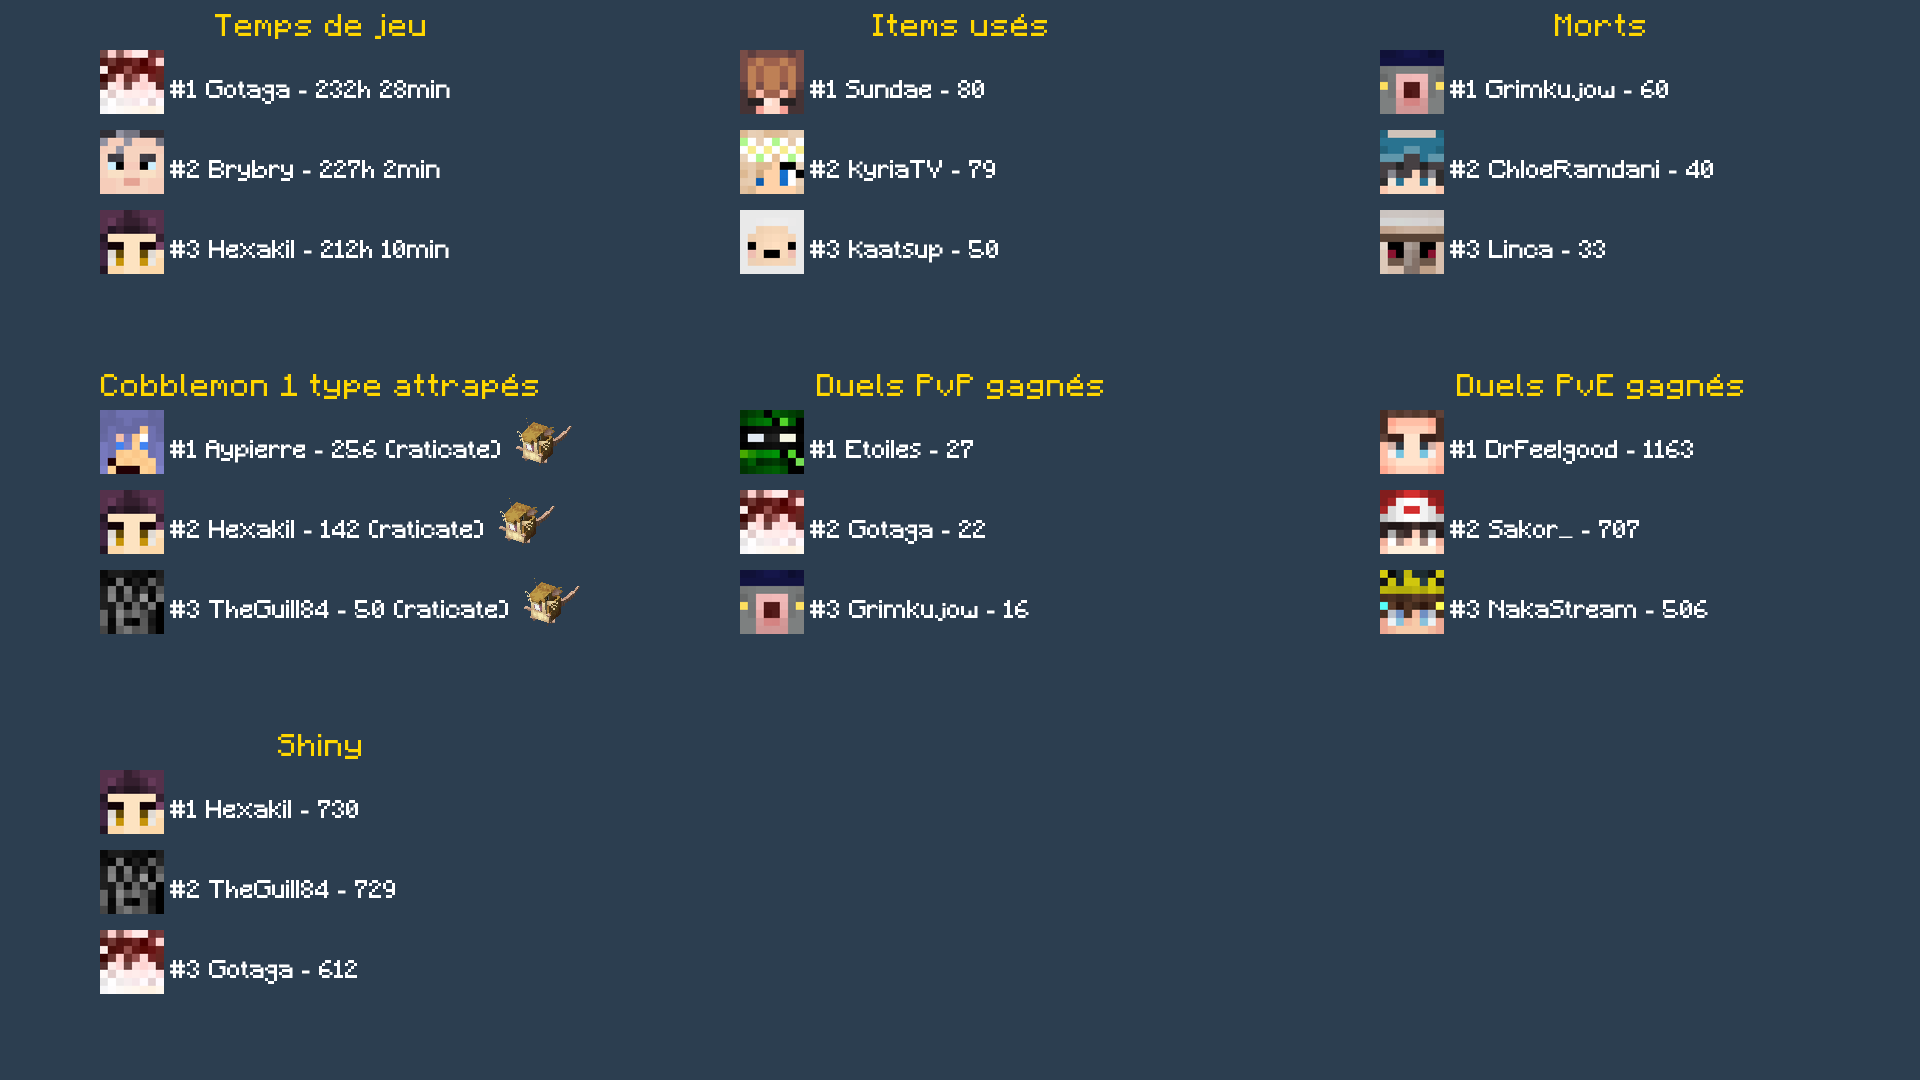
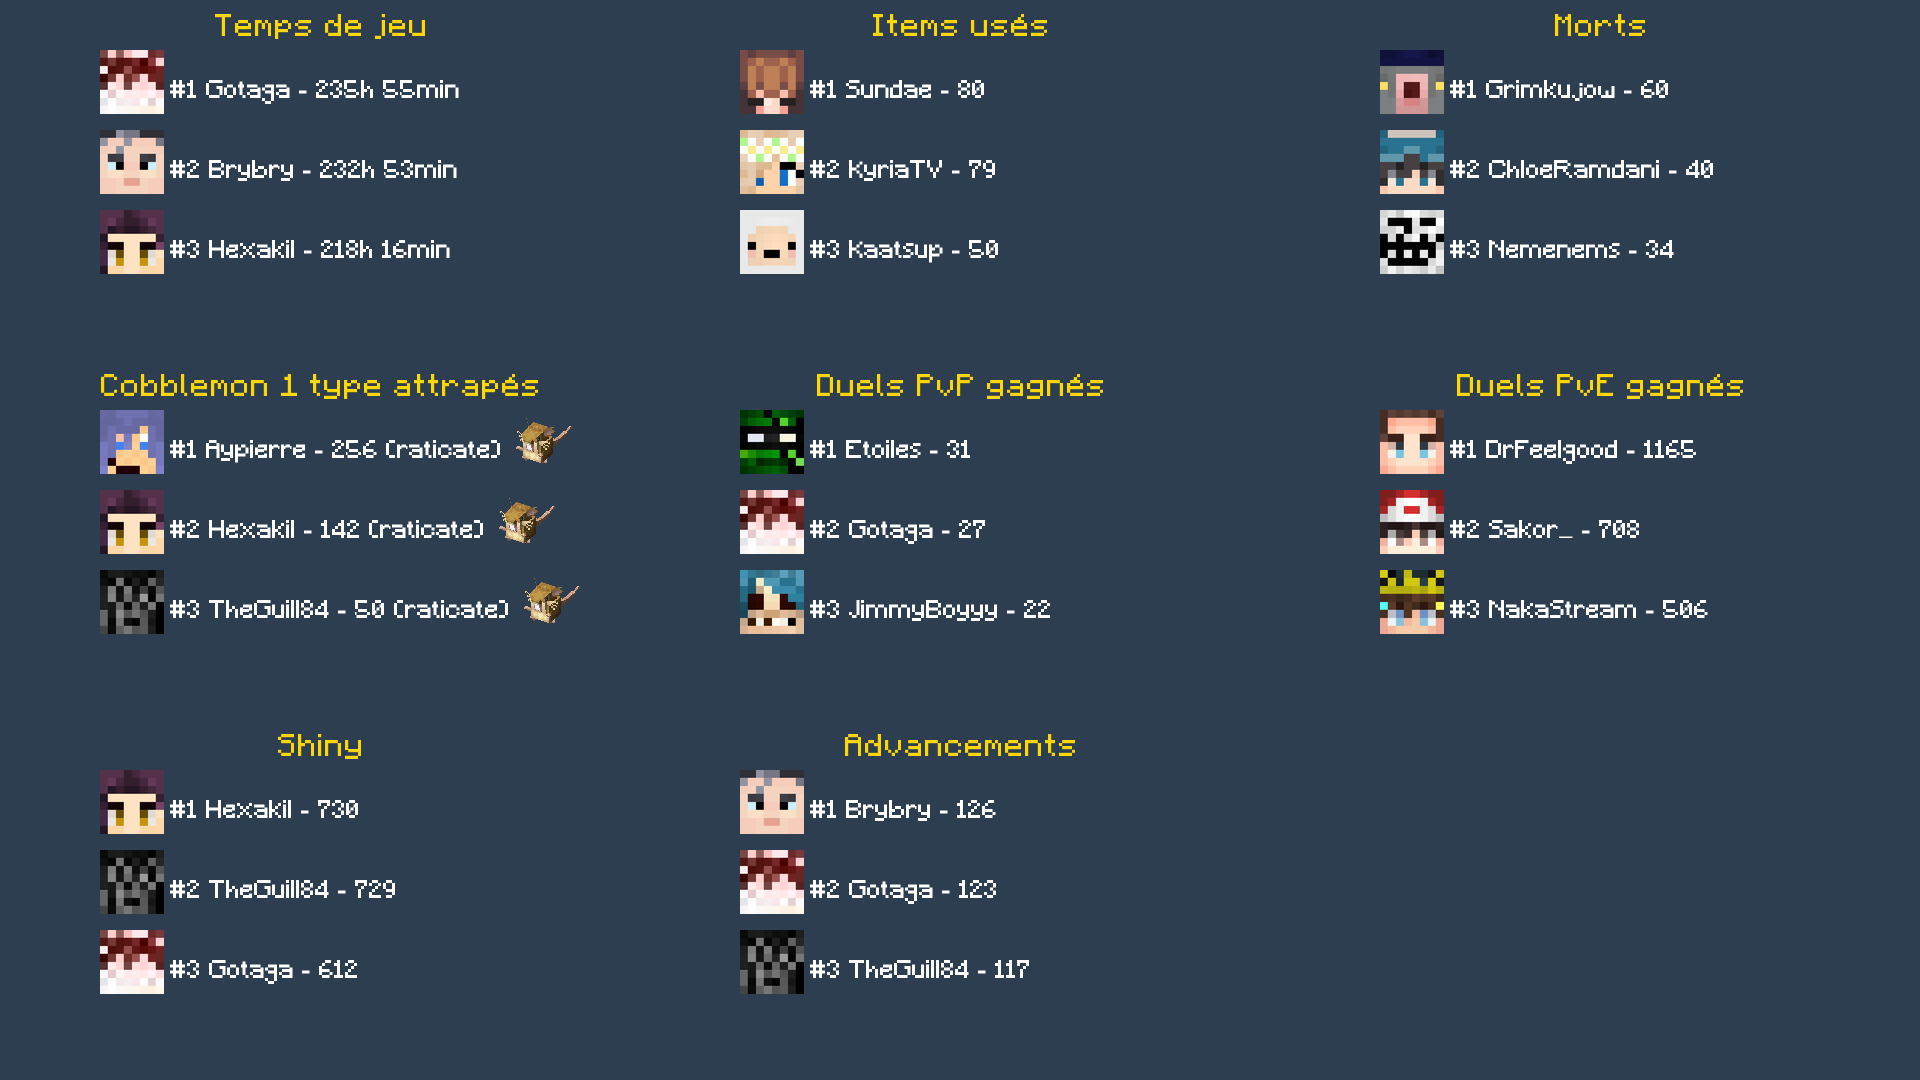
Advancements counting leaderboard for top 3

diff --git a/main.py b/main.py
@@ -80,15 +80,18 @@ def list_sftp_directory(sftp, path="."):
 def loadVanillaData(csvtoggle, csvpath, inputmode, ftpserver, ftppath, localpath, csvtogglemoney, csvpathmoney):
     df = pd.DataFrame()
     money = {}
+    advancements = pd.DataFrame()
     
     if inputmode == "ftp" or inputmode == "sftp":
         
         if ftppath == "":
             ftppath_complete_stats = "world/stats"
             ftppath_complete_playerdata = "world/playerdata"
+            ftppath_complete_advancements = "world/advancements"
         else:
             ftppath_complete_stats = ftppath + "/world/stats"
             ftppath_complete_playerdata = ftppath + "/world/playerdata"
+            ftppath_complete_advancements = ftppath + "/world/advancements"
         if inputmode == "ftp":
             ftpserver.cwd(ftppath)
             with open("data/usercache/usercache.json", "wb") as file:
@@ -127,24 +130,16 @@ def loadVanillaData(csvtoggle, csvpath, inputmode, ftpserver, ftppath, localpath
                 raise
 
         # Start by removing current data files in local
-        for filename in os.listdir("data/stats"):
-            file_path = os.path.join("data/stats", filename)
-            try:
-                if filename == ".gitignore":
-                    continue
-                if os.path.isfile(file_path) or os.path.islink(file_path):
-                    os.unlink(file_path)
-            except Exception as e:
-                print('Failed to remove %s. Reason: %s' % (file_path, e))
-        for filename in os.listdir("data/playerdata"):
-            file_path = os.path.join("data/playerdata", filename)
-            try:
-                if filename == ".gitignore":
-                    continue
-                if os.path.isfile(file_path) or os.path.islink(file_path):
-                    os.unlink(file_path)
-            except Exception as e:
-                print('Failed to remove %s. Reason: %s' % (file_path, e))
+        for folder in ["data/stats", "data/playerdata", "data/advancements"]:
+            for filename in os.listdir(folder):
+                file_path = os.path.join(folder, filename)
+                try:
+                    if filename == ".gitignore":
+                        continue
+                    if os.path.isfile(file_path) or os.path.islink(file_path):
+                        os.unlink(file_path)
+                except Exception as e:
+                    print('Failed to remove %s. Reason: %s' % (file_path, e))
 
         # Process the stats data
         for filename in filenames:
@@ -216,6 +211,52 @@ def loadVanillaData(csvtoggle, csvpath, inputmode, ftpserver, ftppath, localpath
             money[temp_name.iloc[0]] = math.floor(nbtfile['cardinal_components']['numismatic-overhaul:currency']['Value'].value/10000)
         money = pd.DataFrame(money, index=["money"]).transpose()
         
+        # Go back to previous folder, now use advancements
+        if inputmode == "ftp":
+            # Go back to root
+            ftpserver.cwd("../" * (len(ftpserver.pwd().split("/"))-1))
+            # Get directories
+            filenames = ftpserver.nlst(ftppath_complete_advancements)
+            ftpserver.cwd(ftppath_complete_advancements)
+        elif inputmode == "sftp":
+            # Go back to root
+            current_path = ftpserver.getcwd()
+            depth = len([x for x in current_path.split("/") if x]) if current_path != "/" else 0
+            if depth > 0:
+                ftpserver.chdir("../" * depth)  # Return to root
+            # Get directories
+            filenames = ftpserver.listdir(ftppath_complete_advancements)
+            ftpserver.chdir(ftppath_complete_advancements)
+        for filename in filenames:
+            filename = filename.split("/")[-1]
+            if filename[-1] == ".":
+                continue
+            print("Now processing", filename)
+            # Download the file to process
+            local_file = "data/advancements/"+filename
+            with open(local_file, "wb") as file:
+                if inputmode == "ftp":
+                    ftpserver.retrbinary(f"RETR {filename}", file.write)
+                elif inputmode == "sftp":
+                    ftpserver.get(filename, local_file)
+            with open(local_file, "r") as file:
+                data = json.load(file)
+            temp_df = pd.json_normalize(data, meta_prefix=True)
+            temp_name = names.loc[names['uuid'] == filename[:-5]]['name']
+            if temp_name.empty:
+                print("No username found for UUID", filename[:-5], " in usercache.json, using UUID for this player instead.")
+                temp_name = filename[:-5]
+                temp_df = temp_df.transpose().iloc[1:].rename({0: temp_name}, axis=1)
+            temp_df = temp_df.transpose().iloc[1:].rename({0: temp_name.iloc[0]}, axis=1)
+            # Split the index (stats.blabla.blabla) into 3 indexes (stats, blabla, blabla)
+            temp_df.index = temp_df.index.str.split('.', expand=True)
+            #print(temp_df)
+            #temp_df.to_csv('temp.csv')
+            if advancements.empty:
+                advancements = temp_df
+            else:
+                advancements = advancements.join(temp_df, how="outer")
+        
         # Go back to root
         if inputmode == "ftp":
             ftpserver.cwd("../" * (len(ftpserver.pwd().split("/"))-1))
@@ -233,9 +274,10 @@ def loadVanillaData(csvtoggle, csvpath, inputmode, ftpserver, ftppath, localpath
         if inputmode == "manual":
             playerdata_path = 'data/playerdata'
             stats_path = 'data/stats'
+            advancements_path = 'data/advancements'
         if inputmode == "local":
             playerdata_path = localpath+'/world/playerdata'
-            stats_path = localpath+'/world/stats'
+            advancements_path = localpath+'/world/advancements'
             
         # Stats
         for filename in os.listdir(stats_path):
@@ -275,14 +317,41 @@ def loadVanillaData(csvtoggle, csvpath, inputmode, ftpserver, ftppath, localpath
             nbtfile = nbt.nbt.NBTFile(playerdata_path + '/' + filename,'r')
             money[temp_name.iloc[0]] = math.floor(nbtfile['cardinal_components']['numismatic-overhaul:currency']['Value'].value/10000)
         money = pd.DataFrame(money, index=["money"]).transpose()
+            
+        # Advancements
+        for filename in os.listdir(advancements_path):
+            if filename == ".gitignore":
+                continue
+            print("Now processing", filename)
+            file = open(advancements_path + '/' + filename)
+            data = json.load(file)
+            # Import the JSON to a Pandas DF
+            temp_df = pd.json_normalize(data, meta_prefix=True)
+            temp_name = names.loc[names['uuid'] == filename[:-5]]['name']
+            if temp_name.empty:
+                print("No username found for UUID", filename[:-5], " in usercache.json, using UUID for this player instead.")
+                temp_name = filename[:-5]
+                temp_df = temp_df.transpose().iloc[1:].rename({0: temp_name}, axis=1)
+            temp_df = temp_df.transpose().iloc[1:].rename({0: temp_name.iloc[0]}, axis=1)
+            # Split the index (stats.blabla.blabla) into 3 indexes (stats, blabla, blabla)
+            temp_df.index = temp_df.index.str.split('.', expand=True)
+            # Drop rows where it's not a real advancement, it's only an unlocked recipe (i.e. takes the shape of xxx:recipes/yyy)
+            temp_df = temp_df[~temp_df.index.get_level_values(0).str.split(":", n=1).str[1].str.startswith("recipes")]
+            #print(temp_df)
+            #temp_df.to_csv('temp.csv')
+            if advancements.empty:
+                advancements = temp_df
+            else:
+                advancements = advancements.join(temp_df, how="outer")
     
     # Replace missing values by 0 (the stat has simply not been initialized because the associated action was not performed)
     df = df.fillna(0)
+    advancements = advancements.fillna(0)
     if csvtoggle == "true":
         df.to_csv(csvpath)
     if csvtogglemoney == "true":
         money.to_csv(csvpathmoney)
-    return df, money
+    return df, money, advancements
 
 def loadCobblemonData(csvtoggle, csvpath, inputmode, ftpserver, ftppath, localpath):
     # Contains cobbledex_discovery/registers
@@ -536,6 +605,12 @@ def getVanillaBestAndWorst(df, username, cleaning, cleaningvalue):
     output = ranks[[username, 'value', 'non_zero_values']].sort_values(username, ascending=False).rename(columns={username:"rank_"+username, "value":"value_"+username})
     print(output) # add .to_string() for the whole output
 
+def getAdvancementsLeaderboard(df):
+    count_df = pd.DataFrame((df == True).sum().sort_values())
+    count_df['index'] = range(len(count_df), 0, -1)
+    count_df = count_df.iloc[::-1]
+    return count_df
+
 def getCobblemonBattleLeaderboard(df, type):
     row = df.loc[type].sort_values().iloc[::-1]
     df = pd.DataFrame(row).rename(columns={type: 0})
@@ -673,7 +748,7 @@ conn = init_database("scoreboard.db")
 if config['VANILLALEADERBOARD']['Enable'] == "true" or config['BESTANDWORST']['Enable'] == "true" or config['COBBLEMONLEADERBOARDS']['MoneyEnable'] == "true":
     # Load the data
     print("LOADING VANILLA DATA")
-    vanilla_df, money_df = loadVanillaData(config['VANILLALEADERBOARD']['CreateCSV'], config['VANILLALEADERBOARD']['CSVPath'], config['INPUT']['Mode'], ftp_server, config['INPUT']['FTPPath'], config['INPUT']['LocalPath'], config['VANILLALEADERBOARD']['CreateCSVMoney'], config['VANILLALEADERBOARD']['CSVPathMoney'])
+    vanilla_df, money_df, advancements_df = loadVanillaData(config['VANILLALEADERBOARD']['CreateCSV'], config['VANILLALEADERBOARD']['CSVPath'], config['INPUT']['Mode'], ftp_server, config['INPUT']['FTPPath'], config['INPUT']['LocalPath'], config['VANILLALEADERBOARD']['CreateCSVMoney'], config['VANILLALEADERBOARD']['CSVPathMoney'])
 
 if config['COBBLEMONLEADERBOARDS']['TotalEnable'] == "true" or config['COBBLEMONLEADERBOARDS']['ShinyEnable'] == "true" or config['COBBLEMONLEADERBOARDS']['LegEnable'] == "true":
     print("LOADING COBBLEMON DATA")
@@ -791,6 +866,8 @@ for leaderboard_type in config['TOPIMAGE']['Leaderboards'].split(','):
                 leaderboards_to_show.append(getVanillaLeaderboard(vanilla_df, leaderboard_type.split('/')[1], leaderboard_type.split('/')[2], False))
             else:
                 leaderboards_to_show.append(getVanillaLeaderboard(vanilla_df, leaderboard_type.split('/')[1], leaderboard_type.split('/')[2], False))
+        elif leaderboard_type.split('/')[1] == "advancements":
+            leaderboards_to_show.append(getAdvancementsLeaderboard(advancements_df))
         else:
             leaderboards_to_show.append(getVanillaLeaderboard(vanilla_df, leaderboard_type.split('/')[1], leaderboard_type.split('/')[2], False))
     elif leaderboard_type.split('/')[0] == "cobblemon":
